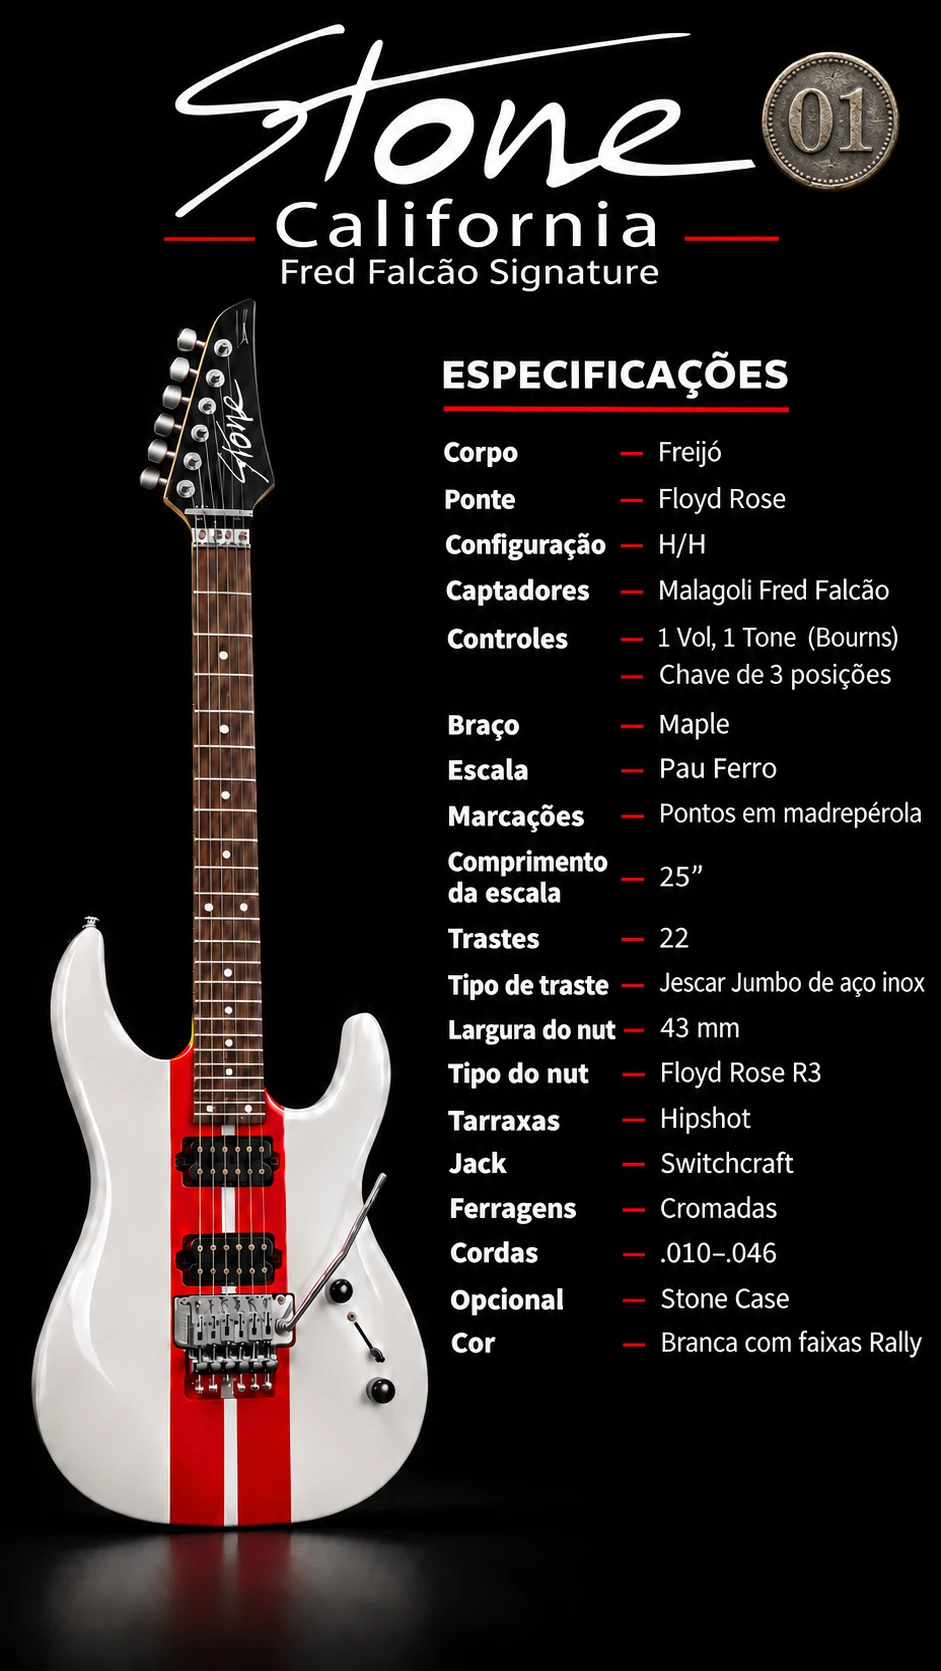
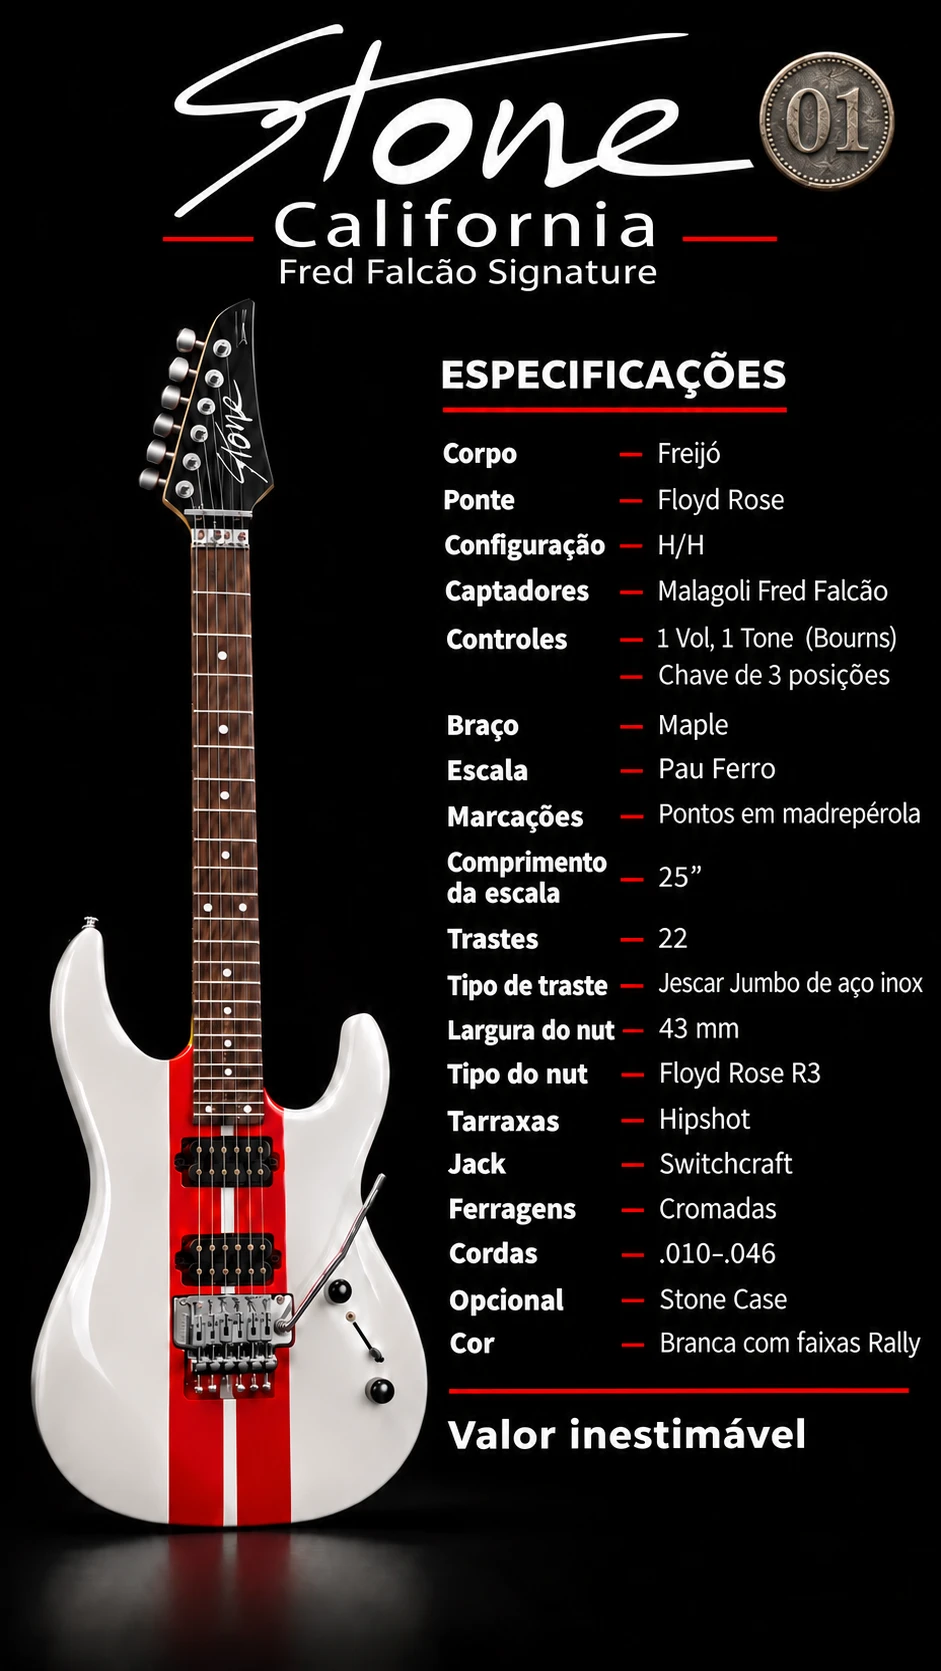
Stone California 01: nova imagem (Valor inestimável)

diff --git a/stone-california-01/index.html b/stone-california-01/index.html
@@ -13,6 +13,6 @@
 </style>
 </head>
 <body>
-  <img src="ficha.webp" alt="Stone California – Fred Falcão Signature nº 01. Corpo Freijó, ponte Floyd Rose, H/H, captadores Malagoli Fred Falcão, 1 Vol 1 Tone (Bourns), chave 3 posições, braço Maple, escala Pau Ferro, pontos em madrepérola, escala 25 pol, 22 trastes Jescar Jumbo inox, nut 43 mm Floyd Rose R3, tarraxas Hipshot, jack Switchcraft, ferragens cromadas, cordas .010–.046, Stone Case, branca com faixas Rally.">
+  <img src="ficha.webp?v=2" alt="Stone California – Fred Falcão Signature nº 01. Corpo Freijó, ponte Floyd Rose, H/H, captadores Malagoli Fred Falcão, 1 Vol 1 Tone (Bourns), chave 3 posições, braço Maple, escala Pau Ferro, pontos em madrepérola, escala 25 pol, 22 trastes Jescar Jumbo inox, nut 43 mm Floyd Rose R3, tarraxas Hipshot, jack Switchcraft, ferragens cromadas, cordas .010–.046, Stone Case, branca com faixas Rally.">
 </body>
 </html>
